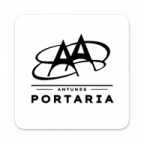
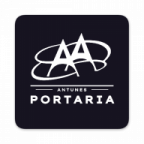
adding features

diff --git a/templates/editar/editar_placas.html b/templates/editar/editar_placas.html
@@ -32,6 +32,7 @@
                             <th>Editar</th>
                             <th>Placa</th>
                             <th>Veículo</th>
+                            <th>KM</th>
                         </tr>
                     </thead>
                     <tbody>
@@ -55,11 +56,15 @@
                         </div>
                         <div class="form-group">
                             <label for="editPlaca">Placa</label>
-                            <input type="text" class="form-control" id="editPlaca" name="placa" autocomplete="off" style="display: flex; margin: auto; width: 70%;">
+                            <input type="text" class="form-control" id="editPlaca" name="placa" autocomplete="off" style="display: flex; margin: auto; width: 70%;" required>
                         </div>
                         <div class="form-group">
                             <label for="editVeiculo">Veiculo</label>
-                            <input type="text" class="form-control" id="editVeiculo" name="veiculo" autocomplete="off" style="display: flex; margin: auto; width: 70%;">
+                            <input type="text" class="form-control" id="editVeiculo" name="veiculo" autocomplete="off" style="display: flex; margin: auto; width: 70%;" required>
+                        </div>
+                        <div class="form-group">
+                            <label for="editKmNeeded">KM Necessário?</label>
+                            <input type="checkbox" id="editKmNeeded" name="km-needed" autocomplete="off" value="1" style="display: flex; margin: auto;">
                         </div>
                         <div class="form-group" style="display: flex;">
                             <button type="submit" class="btn btn-primary" style="margin-right: 5px;">Salvar</button>
@@ -88,7 +93,8 @@
                         orderable: false,
                     },
                     {data: 'placa'},
-                    {data: 'veiculo'}
+                    {data: 'veiculo'},
+                    {data: 'km_necessario', render: function ( data, type, row ) { return data?"<input type='checkbox' checked disabled></input>":"<input type='checkbox' disabled></input>";},}
                 ],
             });
 
@@ -97,6 +103,7 @@
                 $('#editId').val(data.id);
                 $('#editPlaca').val(data.placa);
                 $('#editVeiculo').val(data.veiculo);
+                $('#editKmNeeded').prop('checked' ,data.km_necessario);
                 $('#editModal').modal('show');
             });
 
@@ -104,6 +111,7 @@
                 $('#editId').val(null);
                 $('#editPlaca').val(null);
                 $('#editVeiculo').val(null);
+                $('#editKmNeeded').prop('checked' ,false);
                 $('#editModalLabel').text('Cadastrar Placa');
                 $('#editModal').modal('show');
             });

diff --git a/static/main.js b/static/main.js
@@ -100,20 +100,30 @@ function sendDataToServer(url, formData, method) {
     };
 }
 
-function lastKm(placaField, km) {
+function lastKm(placaField, km, exitField) {
     placaValue = document.getElementById(placaField).value;
     kmField = document.getElementById(km);
+    exitChecked = document.getElementById(exitField).checked;
 
     checkServerAvailability()
         .then(serverAvailable => {
             if (serverAvailable) {
-                sendDataToServer('/api/last_km?placa[value]=' + placaValue, null, 'GET')
+                sendDataToServer('/api/last_km?placa[value]=' + placaValue + '&exit[value]=' + exitChecked, null, 'GET')
                 .then(({ message, last_km }) => {
                     console.log(message);
-                    kmField.value = last_km
+                    if (message == 'km no needed') {
+                        kmField.querySelector('input').required = false
+                        kmField.classList.add('hidden');
+                    } else {
+                        kmField.classList.remove('hidden');
+                        kmField.querySelector('input').required = true
+                        kmField.querySelector('input').value = last_km
+                    }
                 })
                 .catch(error => {
                     console.log(error);
+                    kmField.classList.remove('hidden');
+                    kmField.querySelector('input').required = true
                     return
                 });
             }
@@ -398,7 +408,7 @@ function filterAndDisplayOptions(valorAtual, allOptions, inputField, optionsCont
         optionsContainer.appendChild(clonedOption);
 
         clonedOption.addEventListener('click', function() {
-            inputField.value = clonedOption.innerText;
+            inputField.value = clonedOption.innerText.split(' |')[0];
             optionsContainer.classList.remove('show');
         });
     }

diff --git a/templates/registros_empresa.html b/templates/registros_empresa.html
@@ -35,7 +35,7 @@
                 <input type="text" class="form-control" id="motorista" name="motorista" required>
                 <div id="motoristaOptions" class="dynamic-options">
                     {% for motorista in motoristas %}
-                        <div class="dynamic-option">{{ motorista.motorista }}</div>
+                        <div class="dynamic-option">{{ motorista.motorista }} | {{ motorista.cidade }}</div>
                     {% endfor %}
                 </div>
             </div>
@@ -52,7 +52,7 @@
                 <label for="descricao">Descrição</label>
                 <input class="form-control" id="descricao" name="descricao">
             </div>
-            <div class="form-group">
+            <div class="form-group" id="div-quilometragem">
                 <label for="quilometragem">Quilometragem</label>
                 <input type="number" class="form-control" id="quilometragem" name="quilometragem" required>
             </div>
@@ -101,17 +101,17 @@
 {% endblock %}
 {% block scripts %}
     <script>
+        all_placas = JSON.parse('{{ placas | tojson | safe }}');
+
         $(document).ready(function() {
             setupMotoristaInput();
             setupPlacaInput();
         });
 
         $('#placa').on('blur', function() {
-            if ($('#saida').is(':checked')) {
-                setTimeout( function() {
-                    lastKm('placa', 'quilometragem');
-                }, 300);
-            };
+            setTimeout( function() {
+                lastKm('placa', 'div-quilometragem', 'saida');
+            }, 300);
         });
     </script>
 {% endblock %}

diff --git a/templates/editar/editar_motoristas.html b/templates/editar/editar_motoristas.html
@@ -55,11 +55,11 @@
                         </div>
                         <div class="form-group">
                             <label for="editMotorista">Motorista</label>
-                            <input type="text" class="form-control" id="editMotorista" name="motorista" style="display: flex; margin: auto; width: 70%;">
+                            <input type="text" class="form-control" id="editMotorista" name="motorista" style="display: flex; margin: auto; width: 70%;" required>
                         </div>
                         <div class="form-group">
                             <label for="editCidade">Cidade</label>
-                            <input type="text" class="form-control" id="editCidade" name="cidade" style="display: flex; margin: auto; width: 70%;">
+                            <input type="text" class="form-control" id="editCidade" name="cidade" style="display: flex; margin: auto; width: 70%;" required>
                         </div>
                         <div class="form-group" style="display: flex;">
                             <button type="submit" class="btn btn-primary" style="margin-right: 5px;">Salvar</button>

diff --git a/templates/login.html b/templates/login.html
@@ -10,9 +10,9 @@
 </head>
 <body>
     <div class="container" style="background-color: #000; border: none;">
-        <img src="{{ url_for('static', filename='images/logo.png')}}" style="border-radius: 7px; max-width: 100%; height: auto; margin-bottom: 10px; filter: invert(100);" alt="Logo" />
+        <img src="{{ url_for('static', filename='images/logo.png')}}" style="max-width: 100%; height: auto;" alt="Logo" />
     </div>
-    <div class="container" style="margin-top: 10px">
+    <div class="container" style="margin-top: 0px">
         {% include 'flash.html' %}
         <div class="login-form">
             <form method="post" action="{{ url_for('front_end.login') }}">

diff --git a/blueprints/front_end/views.py b/blueprints/front_end/views.py
@@ -52,16 +52,21 @@ def api_data(data):
     if data == 'last_km':
         try:
             placa = request.args.get('placa[value]')
-            query = RegistrosEmpresa.query.filter_by(placa=placa).order_by(
-                RegistrosEmpresa.id.desc()).first()
-            if query:
-                if query.categoria == "entrada":
-                    last_km = query.quilometragem
-                    return jsonify({'message': 'success', 'last_km': f'{last_km}'})
+            exit_checked = request.args.get('exit[value]') == 'true'
+            km_needed = Placas.query.filter_by(placa=placa).one_or_none()
+            if km_needed.km_necessario == 1:
+                query = RegistrosEmpresa.query.filter_by(placa=placa).order_by(
+                    RegistrosEmpresa.id.desc()).first()
+                if query and exit_checked:
+                    if query.categoria == "entrada":
+                        last_km = query.quilometragem
+                        return jsonify({'message': 'success', 'last_km': f'{last_km}'})
+                    else:
+                        abort(404, description='Nenhum dado encontrado!')
                 else:
                     abort(404, description='Nenhum dado encontrado!')
             else:
-                abort(404, description='Nenhum dado encontrado!')
+                return jsonify({'message': 'km no needed'})
         except Exception as e:
             abort(500, description=str(e))
 
@@ -184,22 +189,32 @@ def processar_formulario():
 
         elif formulario_id == "editFormPlacas":
             dados_coletados = Placas.query.get(request.form.get('id'))
+            duplicado = Placas.query.filter_by(placa=request.form.get('placa')).one_or_none()
             if not dados_coletados:
-                dados_coletados = Placas(
-                    placa=request.form.get('placa'),
-                    veiculo=request.form.get('veiculo')
-                )
+                if not duplicado:
+                    dados_coletados = Placas(
+                        placa=request.form.get('placa'),
+                        veiculo=request.form.get('veiculo'),
+                        km_necessario=bool(request.form.get('km-needed'))
+                    )
+                else:
+                    return jsonify({'type': 'info', 'message': 'Placa já cadastrada!'})
             else:
                 dados_coletados.placa = request.form.get('placa')
                 dados_coletados.veiculo = request.form.get('veiculo')
+                dados_coletados.km_necessario = bool(request.form.get('km-needed'))
 
         elif formulario_id == "editFormMotoristas":
             dados_coletados = Motoristas.query.get(request.form.get('id'))
+            duplicado = Motoristas.query.filter_by(motorista=request.form.get('motorista')).one_or_none()
             if not dados_coletados:
-                dados_coletados = Motoristas(
-                    motorista=request.form.get('motorista'),
-                    cidade=request.form.get('cidade')
-                )
+                if not duplicado:
+                    dados_coletados = Motoristas(
+                        motorista=request.form.get('motorista'),
+                        cidade=request.form.get('cidade')
+                    )
+                else:
+                    return jsonify({'type': 'info', 'message': 'Motorista já cadastrado!'})
             else:
                 dados_coletados.motorista = request.form.get('motorista')
                 dados_coletados.cidade = request.form.get('cidade')

diff --git a/models.py b/models.py
@@ -8,6 +8,7 @@ class Placas(db.Model):
     id = db.Column(db.Integer, primary_key=True, autoincrement=True, nullable=False)
     placa = db.Column(db.String(10), nullable=False)
     veiculo = db.Column(db.String(30))
+    km_necessario = db.Column(db.Boolean, default=True)
 
     def to_dict(self):
         return {c.key: getattr(self, c.key) for c in inspect(self).mapper.column_attrs}
